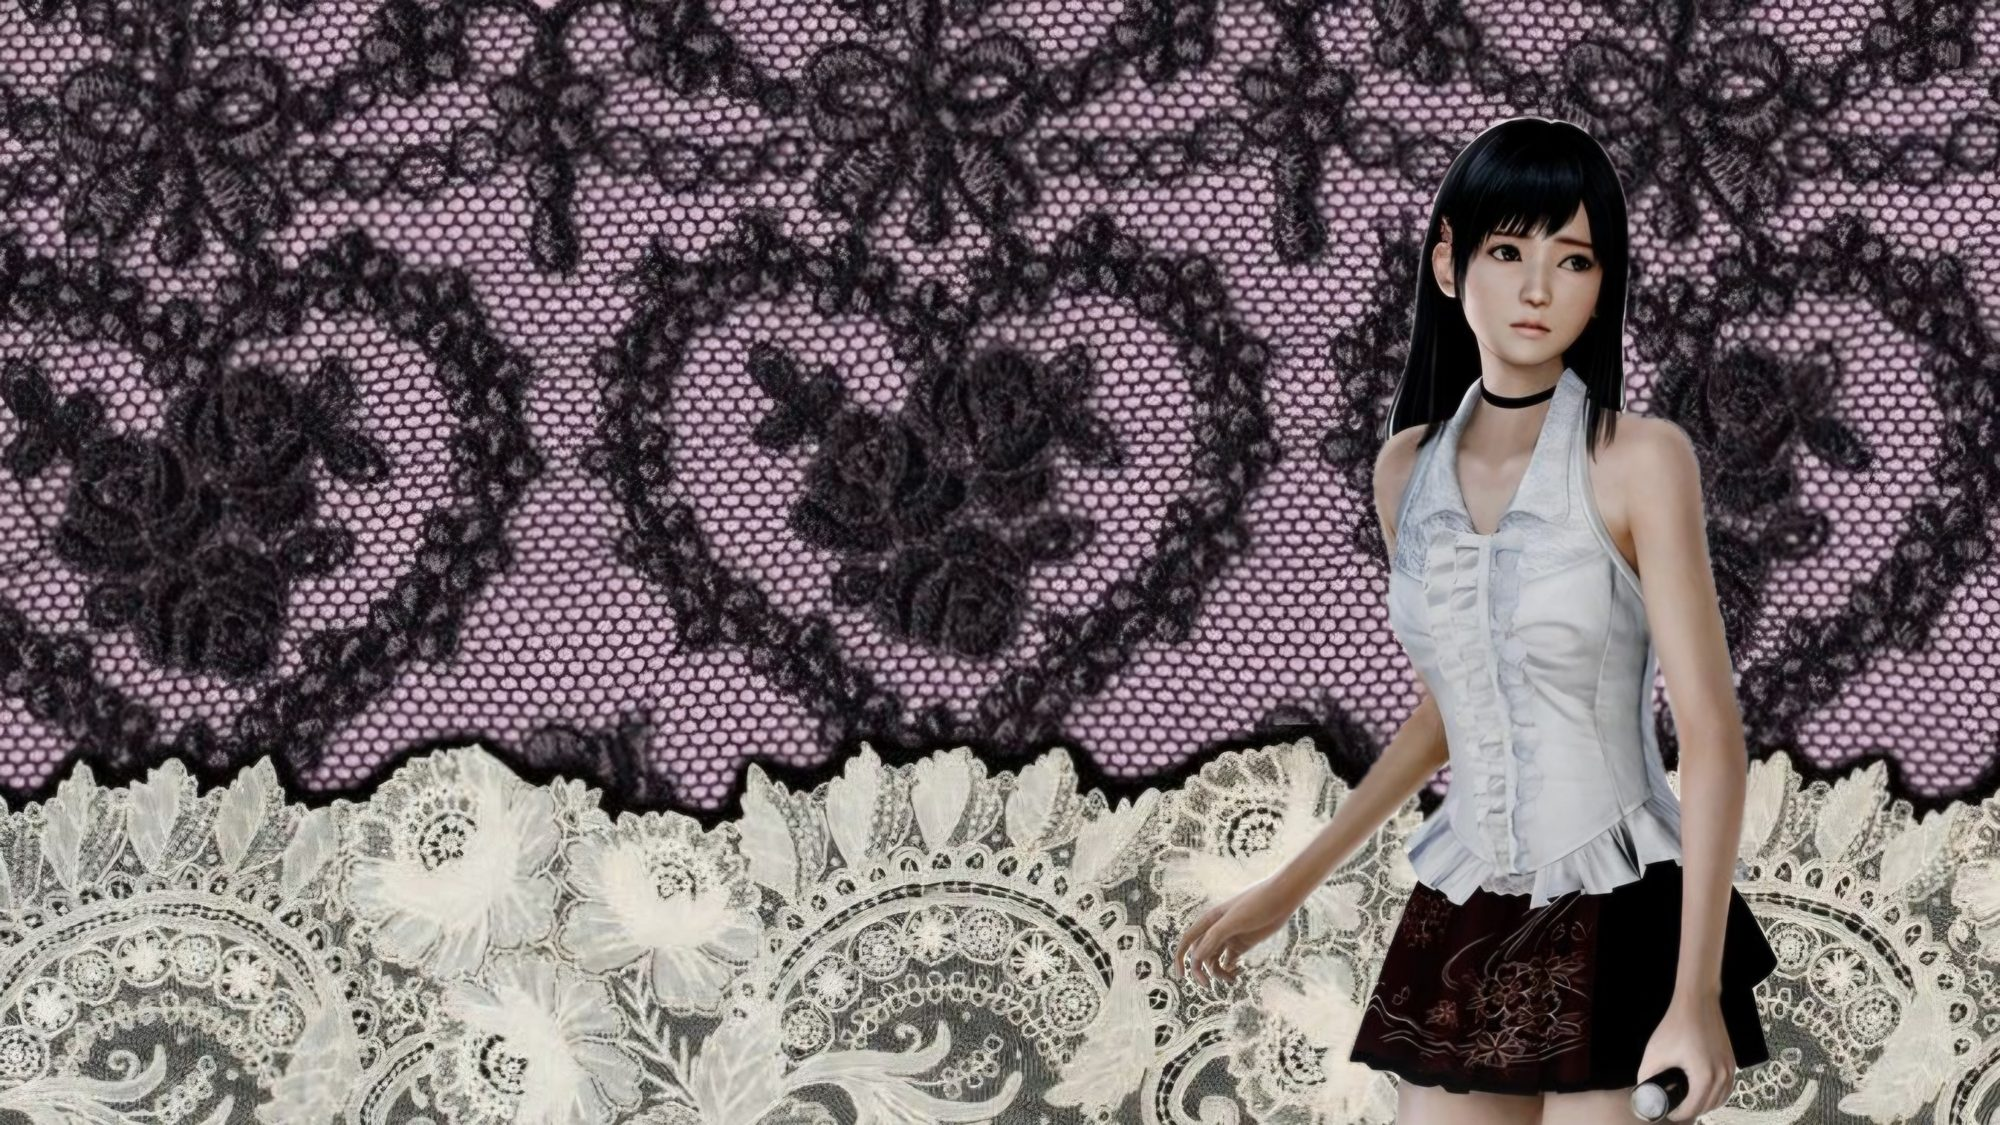
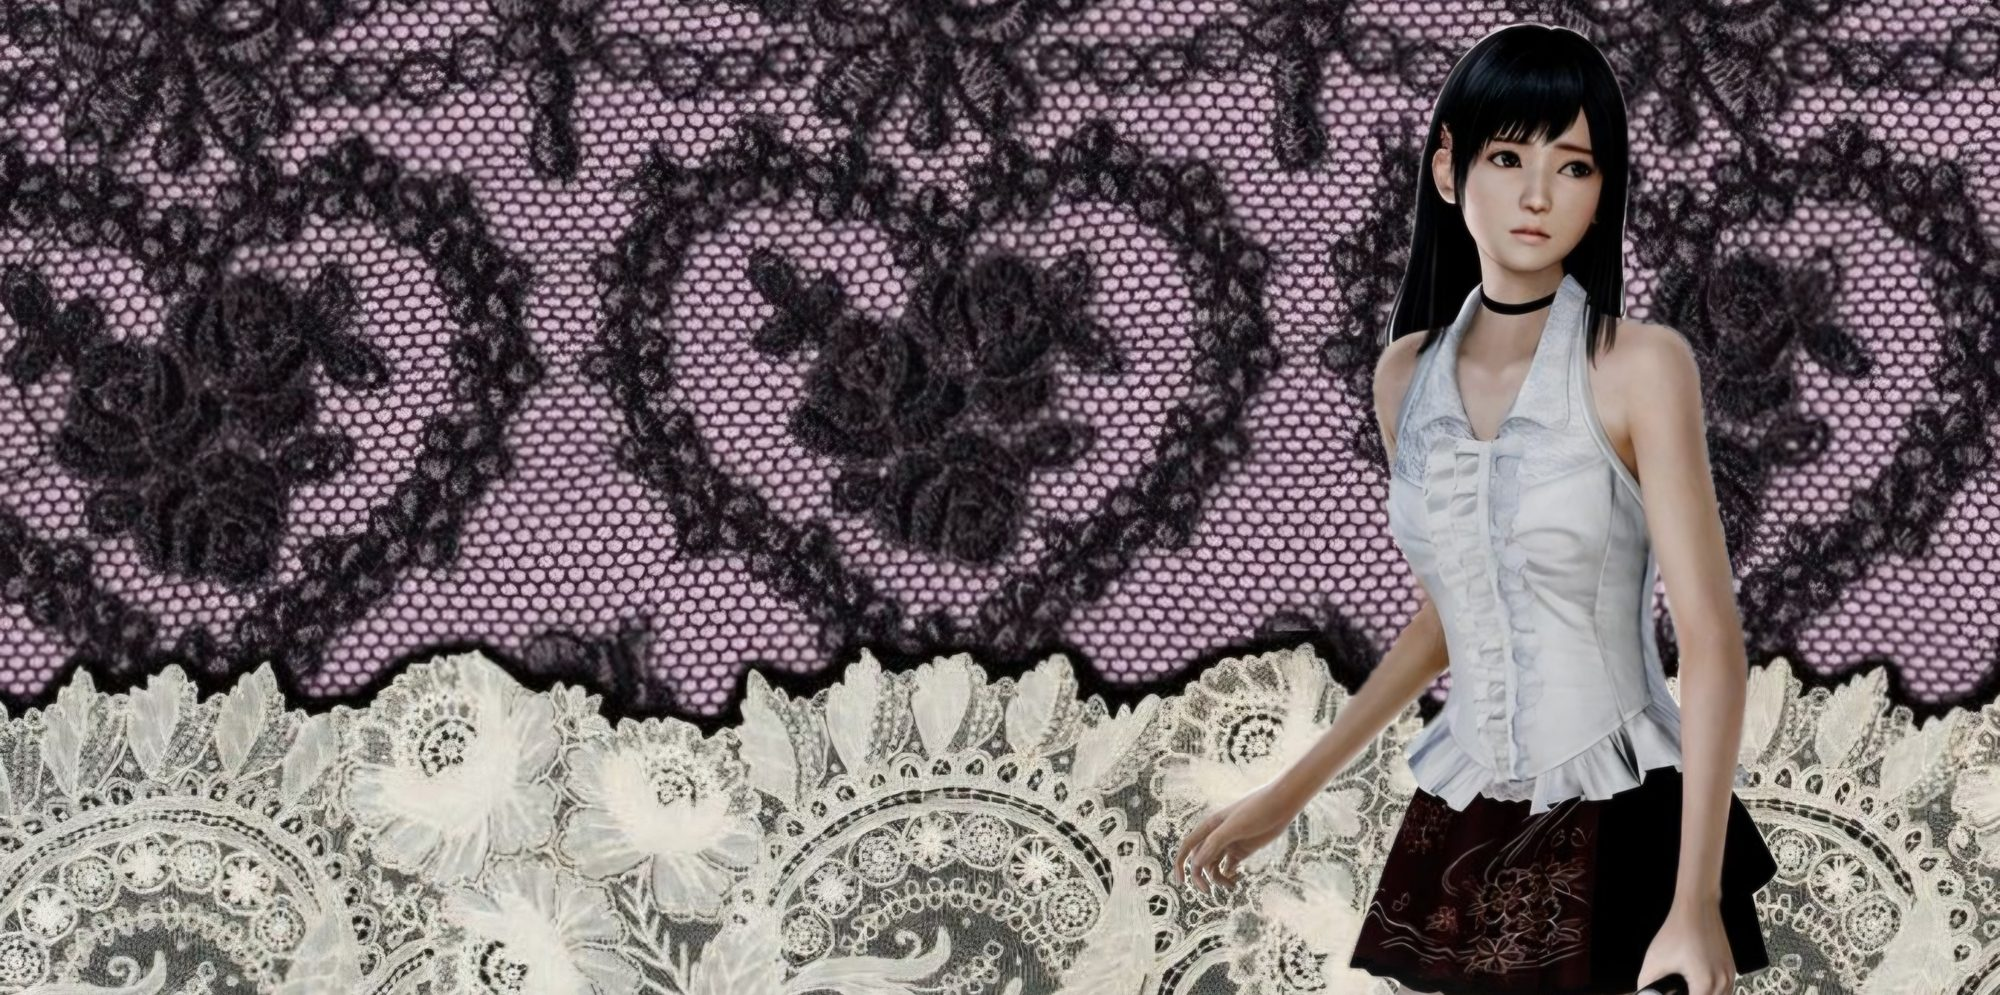
Swap tienda cover for wider photo, nudge title down a bit
Claude-Session: https://claude.ai/code/session_013r9AdH4osUwZ7bjnFeoHm8

diff --git a/tienda.css b/tienda.css
@@ -22,7 +22,7 @@
 .tienda-logo {
   position: absolute;
   left: 5%;
-  bottom: 58%;
+  bottom: 48%;
   z-index: 2;
   font-family: 'Angelic War', 'Cormorant Garamond', serif;
   font-size: 4rem;
@@ -34,7 +34,7 @@
 }
 
 @media (min-width: 700px) {
-  .tienda-logo { font-size: 6rem; bottom: 30%; }
+  .tienda-logo { font-size: 6rem; bottom: 20%; }
 }
 
 .tienda-main {
